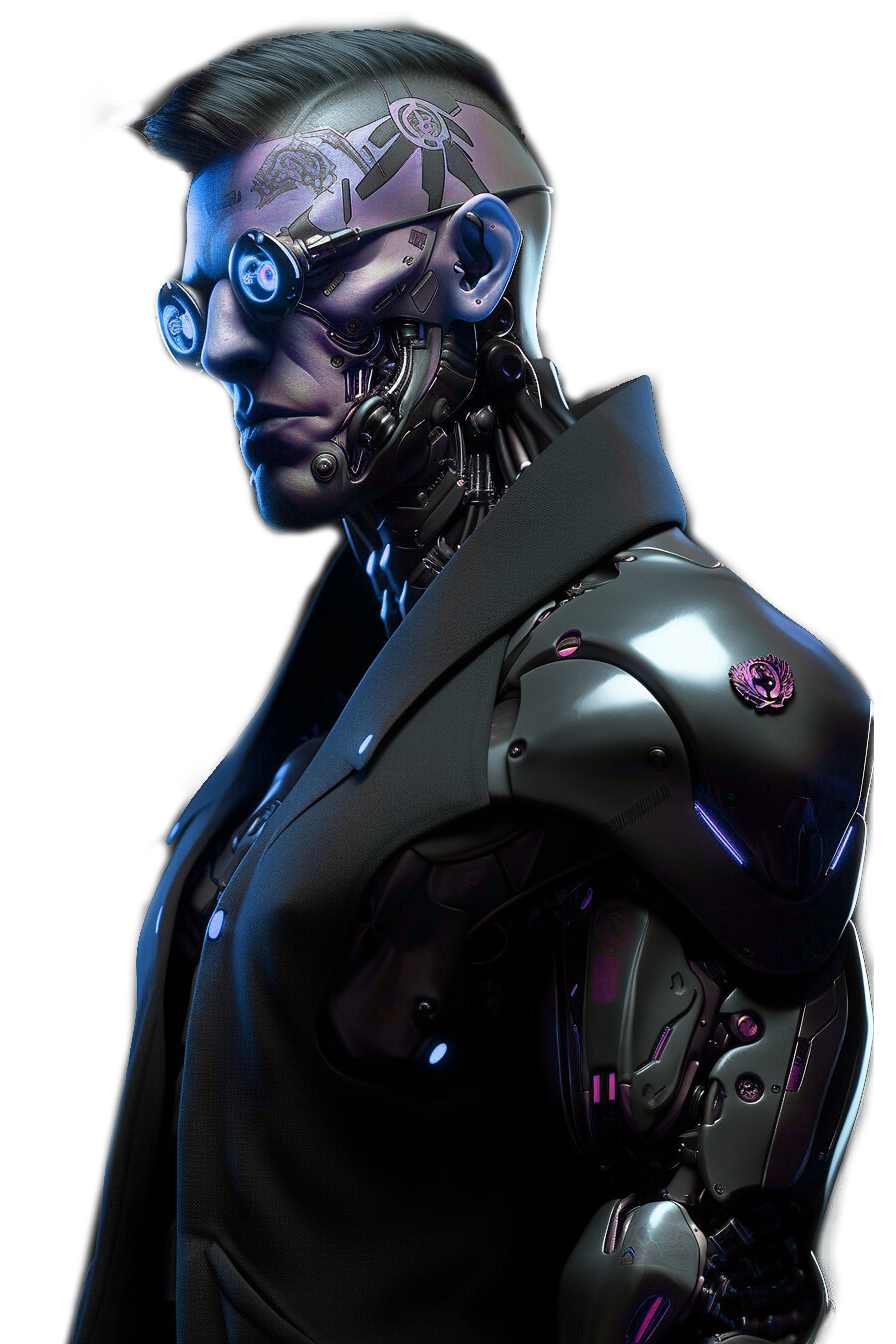
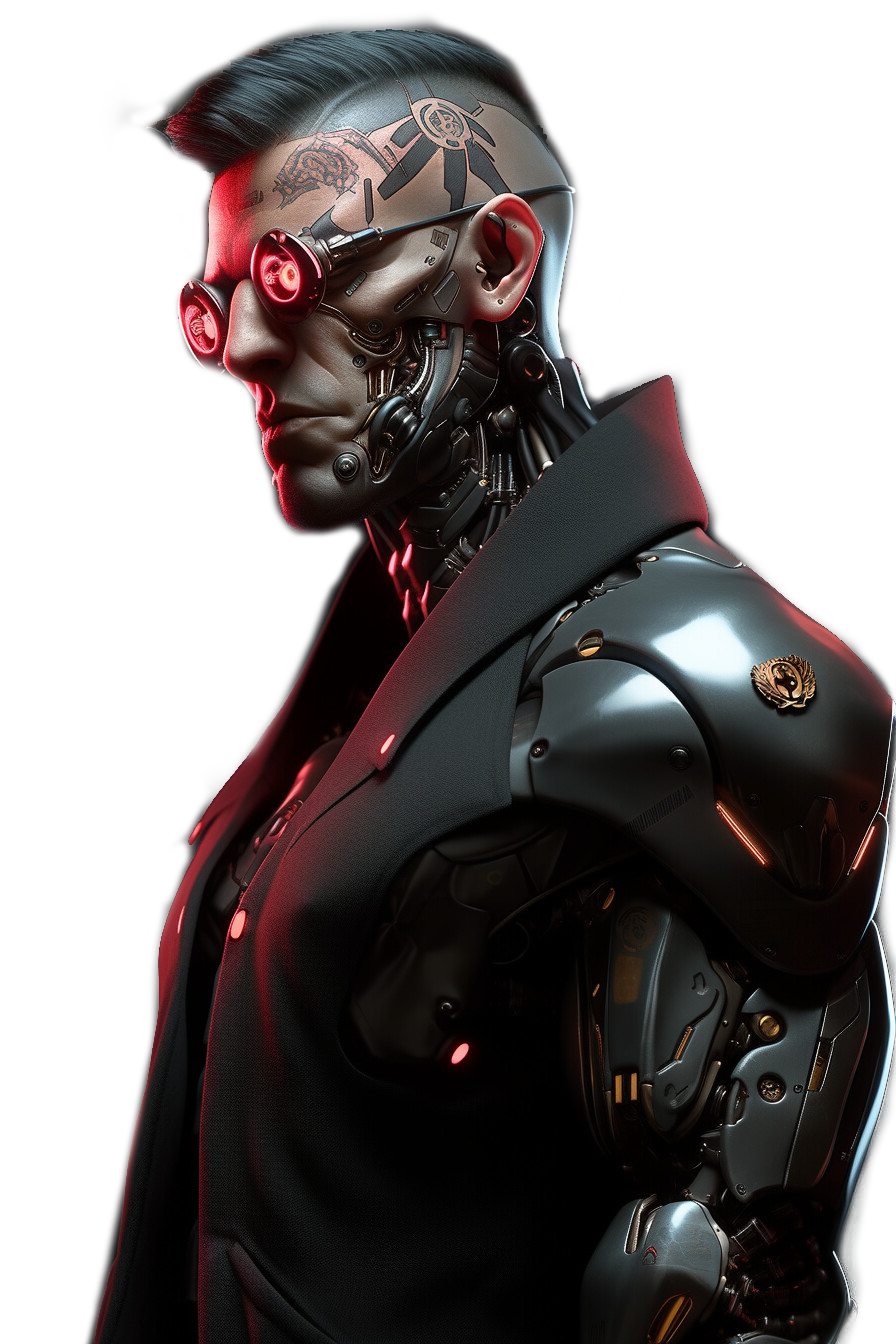
feat: updating + fixing ui bugs

Changed region(s): [[0.0625, 0.0, 1.0, 1.0], [0.75, 0.5938, 0.875, 0.6562], [0.4688, 0.75, 0.5312, 0.8125]]

diff --git a/app/components/FrameworkIcons.tsx b/app/components/FrameworkIcons.tsx
@@ -9,7 +9,8 @@ import {
   CsharpOriginal,
   Css3Original,
   DartOriginal,
-  DjangoPlainWordmark, DjangorestLineWordmark, DjangorestOriginal, DjangorestPlain, DjangorestPlainWordmark,
+  DjangoPlain,
+  DjangorestPlain,
   DockerOriginalWordmark,
   DotnetcoreOriginal,
   DotNetOriginal,
@@ -17,6 +18,7 @@ import {
   FlaskOriginal,
   FlutterOriginal,
   GitlabOriginalWordmark,
+  GitOriginal,
   GooglecloudOriginal,
   GoOriginal,
   Html5Original,
@@ -28,7 +30,7 @@ import {
   KubernetesOriginalWordmark,
   LaravelOriginal,
   MicrosoftsqlserverOriginalWordmark,
-  MongodbOriginalWordmark,
+  MongodbOriginal,
   MysqlOriginalWordmark,
   NextjsOriginal,
   NodejsOriginal,
@@ -50,11 +52,13 @@ import {
   SwiftOriginalWordmark,
   TailwindcssOriginal,
   TypescriptOriginal,
-  VuejsOriginal, WebflowOriginal, WordpressOriginal,
+  VuejsOriginal,
+  WebflowOriginal,
+  WordpressOriginal,
 } from "devicons-react";
-import {GitHubLogoIcon} from "@radix-ui/react-icons";
 import {SiExpress} from "react-icons/si";
 import {Tooltip, TooltipContent, TooltipProvider, TooltipTrigger} from "@/components/ui/tooltip";
+import {AiFillGithub} from "react-icons/ai";
 
 interface Framework {
   value: string;
@@ -67,7 +71,7 @@ export const allFrameworks: Framework[] = [
   {value: 'NODEJS', label: 'Node.js', icon: <NodejsOriginal size={30} color="slategrey"/>},
   {value: 'NEXTJS', label: 'Next.js', icon: <NextjsOriginal size={30} color="slategrey"/>},
   {value: 'PYTHON', label: 'Python', icon: <PythonOriginal size={30} color="slategrey"/>},
-  {value: 'DJANGO', label: 'Django', icon: <DjangoPlainWordmark size={30} color="darkgreen"/>},
+  {value: 'DJANGO', label: 'Django', icon: <DjangoPlain size={30} color="darkgreen"/>},
   {value: 'DJANGOREST', label: 'DjangoRestFramework', icon: <DjangorestPlain size={30} color="slategrey"/>},
   {value: 'FLASK', label: 'Flask', icon: <FlaskOriginal size={30} color="slategrey"/>},
   {value: 'FASTAPI', label: 'FastAPI', icon: <FastapiOriginal size={30} color="slategrey"/>},
@@ -87,7 +91,8 @@ export const allFrameworks: Framework[] = [
   {value: 'ANGULAR', label: 'Angular', icon: <AngularjsOriginal size={30} color="slategrey"/>},
   {value: 'VUEJS', label: 'Vue.js', icon: <VuejsOriginal size={30} color="slategrey"/>},
   {value: 'DOTNET', label: '.NET', icon: <DotnetcoreOriginal size={30} color="slategrey"/>},
-  {value: 'GITHUB', label: 'Github', icon: <GitHubLogoIcon color="slategrey"/>},
+  {value: 'GITHUB', label: 'Github', icon: <AiFillGithub size={30} color="slategrey"/>},
+  {value: 'GIT', label: 'Git', icon: <GitOriginal size={30} color="slategrey"/>},
   {value: 'HTML', label: 'HTML5', icon: <Html5Original size={30} color="slategrey"/>},
   {value: 'CSS', label: 'CSS3', icon: <Css3Original size={30} color="slategrey"/>},
   {value: 'SQL', label: 'SQL', icon: <MicrosoftsqlserverOriginalWordmark size={30} color="slategrey"/>},
@@ -95,7 +100,7 @@ export const allFrameworks: Framework[] = [
   {value: 'POSTGRESQL', label: 'Postgresql', icon: <PostgresqlOriginalWordmark size={30} color="slategrey"/>},
   {value: 'SQLITE', label: 'Sqlite', icon: <SqliteOriginalWordmark size={30} color="slategrey"/>},
   {value: 'SQLALCHEMY', label: 'Sqlalchemy', icon: <SqlalchemyOriginalWordmark size={30} color="slategrey"/>},
-  {value: 'MONGODB', label: 'MongoDB', icon: <MongodbOriginalWordmark size={30} color="slategrey"/>},
+  {value: 'MONGODB', label: 'MongoDB', icon: <MongodbOriginal size={30} color="slategrey"/>},
   {value: 'C', label: 'C', icon: <COriginal size={30} color="slategrey"/>},
   {value: 'R', label: 'R', icon: <ROriginal size={30} color="slategrey"/>},
   {value: 'SWIFTUI', label: 'SwiftUi', icon: <SwiftOriginalWordmark size={30} color="slategrey"/>},
@@ -136,7 +141,7 @@ const renderSkills = (skills: { [key: string]: boolean }, size: number) => {
                         <Tooltip>
                           <TooltipTrigger>
                             <div
-                                className="sm:w-12 sm:h-12 w-10 h-10  bg-muted overflow-hidden flex justify-center items-center rounded-md">
+                                className="sm:w-12 sm:h-12 w-10 h-10 hover:scale-110  animate-[] transition-all duration-500 hover:shadow-primary shadow-lg   bg-muted overflow-hidden flex justify-center items-center rounded-md">
                               {framework.icon}
                             </div>
                           </TooltipTrigger>
@@ -160,7 +165,7 @@ const renderSkills = (skills: { [key: string]: boolean }, size: number) => {
 const FrameworkIcons = ({skills, size}: { skills: { [key: string]: boolean }, size: number }) => {
   return (
       <div className="framework-list">
-        <div className="flex gap-3 flex-wrap">
+        <div className="flex gap-3 flex-wrap ">
           {renderSkills(skills, size)}
         </div>
       </div>

diff --git a/app/generatedTheme.css b/app/generatedTheme.css
@@ -1,45 +1,45 @@
 
     :root {
         --background-custom: 0 0% 100%;
-        --foreground-custom: 222.2 84% 4.9%;
+        --foreground-custom: 240 10% 3.9%;
         --card-custom: 0 0% 100%;
-        --card-foreground-custom: 222.2 84% 4.9%;
+        --card-foreground-custom: 240 10% 3.9%;
         --popover-custom: 0 0% 100%;
-        --popover-foreground-custom: 222.2 84% 4.9%;
-        --primary-custom: 221.2 83.2% 53.3%;
-        --primary-foreground-custom: 210 40% 98%;
-        --secondary-custom: 210 40% 96.1%;
-        --secondary-foreground-custom: 222.2 47.4% 11.2%;
-        --muted-custom: 210 40% 96.1%;
-        --muted-foreground-custom: 215.4 16.3% 46.9%;
-        --accent-custom: 210 40% 96.1%;
-        --accent-foreground-custom: 222.2 47.4% 11.2%;
+        --popover-foreground-custom: 240 10% 3.9%;
+        --primary-custom: 346.8 77.2% 49.8%;
+        --primary-foreground-custom: 355.7 100% 97.3%;
+        --secondary-custom: 240 4.8% 95.9%;
+        --secondary-foreground-custom: 240 5.9% 10%;
+        --muted-custom: 240 4.8% 95.9%;
+        --muted-foreground-custom: 240 3.8% 46.1%;
+        --accent-custom: 240 4.8% 95.9%;
+        --accent-foreground-custom: 240 5.9% 10%;
         --destructive-custom: 0 84.2% 60.2%;
-        --destructive-foreground-custom: 210 40% 98%;
-        --border-custom: 214.3 31.8% 91.4%;
-        --input-custom: 214.3 31.8% 91.4%;
-        --ring-custom: 221.2 83.2% 53.3%;
+        --destructive-foreground-custom: 0 0% 98%;
+        --border-custom: 240 5.9% 90%;
+        --input-custom: 240 5.9% 90%;
+        --ring-custom: 346.8 77.2% 49.8%;
         --radius-custom: 0.5rem;
     }
     .dark {
-        --background-custom-dark: 222.2 84% 4.9%;
-        --foreground-custom-dark: 210 40% 98%;
-        --card-custom-dark: 222.2 84% 4.9%;
-        --card-foreground-custom-dark: 210 40% 98%;
-        --popover-custom-dark: 222.2 84% 4.9%;
-        --popover-foreground-custom-dark: 210 40% 98%;
-        --primary-custom-dark: 217.2 91.2% 59.8%;
-        --primary-foreground-custom-dark: 222.2 47.4% 11.2%;
-        --secondary-custom-dark: 217.2 32.6% 17.5%;
-        --secondary-foreground-custom-dark: 210 40% 98%;
-        --muted-custom-dark: 217.2 32.6% 17.5%;
-        --muted-foreground-custom-dark: 215 20.2% 65.1%;
-        --accent-custom-dark: 217.2 32.6% 17.5%;
-        --accent-foreground-custom-dark: 210 40% 98%;
+        --background-custom-dark: 20 14.3% 4.1%;
+        --foreground-custom-dark: 0 0% 95%;
+        --card-custom-dark: 24 9.8% 10%;
+        --card-foreground-custom-dark: 0 0% 95%;
+        --popover-custom-dark: 0 0% 9%;
+        --popover-foreground-custom-dark: 0 0% 95%;
+        --primary-custom-dark: 346.8 77.2% 49.8%;
+        --primary-foreground-custom-dark: 355.7 100% 97.3%;
+        --secondary-custom-dark: 240 3.7% 15.9%;
+        --secondary-foreground-custom-dark: 0 0% 98%;
+        --muted-custom-dark: 0 0% 15%;
+        --muted-foreground-custom-dark: 240 5% 64.9%;
+        --accent-custom-dark: 12 6.5% 15.1%;
+        --accent-foreground-custom-dark: 0 0% 98%;
         --destructive-custom-dark: 0 62.8% 30.6%;
-        --destructive-foreground-custom-dark: 210 40% 98%;
-        --border-custom-dark: 217.2 32.6% 17.5%;
-        --input-custom-dark: 217.2 32.6% 17.5%;
-        --ring-custom-dark: 224.3 76.3% 48%;
+        --destructive-foreground-custom-dark: 0 85.7% 97.3%;
+        --border-custom-dark: 240 3.7% 15.9%;
+        --input-custom-dark: 240 3.7% 15.9%;
+        --ring-custom-dark: 346.8 77.2% 49.8%;
     }
     

diff --git a/app/ExperiencesTimeline.tsx b/app/ExperiencesTimeline.tsx
@@ -15,28 +15,27 @@ const ExperiencesTimeline = () => {
                     </div>
                     <ol className="relative border-s-2 col-span-2 border-primary dark:border-primary">
                         <li className="mb-10 ms-6">
-                    <span
-                        className="absolute border-primary border-2 flex items-center
-                        shadow-xl shadow-primary transition-all
-                        justify-center w-7 h-7 bg-primary-foreground rounded-full -start-[15px]
-                         dark:bg-background">
-                    <svg className="w-2.5 h-2.5 text-primary  dark:text-primary" aria-hidden="true"
-                         xmlns="http://www.w3.org/2000/svg" fill="currentColor" viewBox="0 0 20 20">
-                        <path
-                            d="M20 4a2 2 0 0 0-2-2h-2V1a1 1 0 0 0-2 0v1h-3V1a1 1 0 0 0-2 0v1H6V1a1 1 0 0 0-2 0v1H2a2 2 0 0 0-2 2v2h20V4ZM0 18a2 2 0 0 0 2 2h16a2 2 0 0 0 2-2V8H0v10Zm5-8h10a1 1 0 0 1 0 2H5a1 1 0 0 1 0-2Z"/>
-                    </svg>
-                    </span>
-                        <h3 className="flex items-center capitalize mb-1 text-sm sm:text-lg font-semibold text-gray-900 dark:text-white">
-                            {item.title}
-                            <Badge
-                                className="ms-3 uppercase">
-
-                                {item.company}
-                            </Badge>
-                        </h3>
-                        <p className="text-sm sm:text-base font-normal text-muted-foreground  ">
-                            {item.description}
-                        </p>
+                            <span
+                                className="absolute border-primary border-2 flex items-center
+                                shadow-xl shadow-primary transition-all
+                                justify-center w-7 h-7 bg-primary-foreground rounded-full -start-[15px]
+                                 dark:bg-background">
+                                <svg className="w-2.5 h-2.5 text-primary dark:text-primary" aria-hidden="true"
+                                    xmlns="http://www.w3.org/2000/svg" fill="currentColor" viewBox="0 0 20 20">
+                                    <path
+                                        d="M20 4a2 2 0 0 0-2-2h-2V1a1 1 0 0 0-2 0v1h-3V1a1 1 0 0 0-2 0v1H6V1a1 1 0 0 0-2 0v1H2a2 2 0 0 0-2 2v2h20V4ZM0 18a2 2 0 0 0 2 2h16a2 2 0 0 0 2-2V8H0v10Zm5-8h10a1 1 0 0 1 0 2H5a1 1 0 0 1 0-2Z"/>
+                                </svg>
+                            </span>
+                            <h3 className="flex items-center capitalize mb-1 text-sm sm:text-lg font-semibold text-gray-900 dark:text-white">
+                                {item.title}
+                                <Badge
+                                    className="ms-3 uppercase">
+                                    {item.company}
+                                </Badge>
+                            </h3>
+                            <p className="text-sm sm:text-base font-normal text-muted-foreground  ">
+                                {item.description}
+                            </p>
                         </li>
                     </ol>
                 </div>

diff --git a/app/components/ContactForm.tsx b/app/components/ContactForm.tsx
@@ -67,7 +67,7 @@ const ContactForm = () => {
                 </div>
                 <div className="flex flex-col justify-end gap-5">
                   <div>I&apos;m interested in ...</div>
-                  <RadioGroup defaultValue={interested} className="flex flex-wrap">
+                  <RadioGroup defaultValue={interested} className="flex flex-wrap ">
                     {me.i_will_do.map(item => (
                         <div key={item}>
                           <RadioGroupItem
@@ -81,7 +81,9 @@ const ContactForm = () => {
                           />
                           <Label
                               htmlFor={item}
-                              className={`flex flex-col items-center capitalize justify-between rounded-md border border-primary bg-popover p-2 hover:bg-accent hover:text-accent-foreground ${interested === item ? 'peer-data-[state=checked]:bg-primary peer-data-[state=checked]:text-background [&:has([data-state=checked])]:bg-primary' : ''}`}
+                              className={`flex flex-col items-center capitalize justify-between rounded-md border 
+                              border-primary transition-all duration-300 bg-popover shadow-lg hover:shadow-primary p-2 hover:bg-accent hover:text-accent-foreground 
+                              ${interested === item ? 'peer-data-[state=checked]:bg-primary peer-data-[state=checked]:text-background [&:has([data-state=checked])]:bg-primary' : ''}`}
                           >
                             {item}
                           </Label>

diff --git a/app/layout.tsx b/app/layout.tsx
@@ -25,11 +25,11 @@ export default function RootLayout({children,}: Readonly<{
       <body className={inter.className}>
       <ThemeProvider
           attribute="class"
-          defaultTheme="system"
+          defaultTheme="dark"
           enableSystem
           disableTransitionOnChange
       >
-        <div className="flex flex-col min-h-screen">
+        <div className="flex flex-col min-h-screen overflow-x-hidden">
           <Navbar/>
           <main className="flex-grow sm:p-10 p-5 bg-gradient-to-r from-primary/25">
             <Container>{children}</Container>

diff --git a/app/Navbar.tsx b/app/Navbar.tsx
@@ -27,7 +27,7 @@ const Navbar = () => {
   return (
       <div className="">
         <Container>
-          <div className="flex my-3 sm: xl:mx-0 mx-5 justify-between items-center">
+          <div className="flex ober my-3 sm: xl:mx-0 mx-5 justify-between items-center">
             <Avatar className="hover:shadow-primary transition-all duration-500 shadow-xl shadow-primary/50 ">
               <AvatarImage rel="apple-touch-icon" src="favicon.ico"/>
               <AvatarFallback>DP</AvatarFallback>

diff --git a/tailwind.config.ts b/tailwind.config.ts
@@ -67,8 +67,13 @@ const config = {
           from: { height: "var(--radix-accordion-content-height)" },
           to: { height: "0" },
         },
+        wiggle: {
+          '0%, 100%': { transform: 'rotate(-3deg)' },
+          '50%': { transform: 'rotate(3deg)' },
+        }
       },
       animation: {
+        wiggle: 'wiggle 1s ease-in',
         "accordion-down": "accordion-down 0.2s ease-out",
         "accordion-up": "accordion-up 0.2s ease-out",
       },

diff --git a/app/AboutMe.tsx b/app/AboutMe.tsx
@@ -14,6 +14,9 @@ const AboutMe = () => {
               <p className="text-muted-foreground sm:w-[47%] sm:leading-8">
                 {me.about_me}
               </p>
+                <div className="flex-wrap flex gap-2">
+                    <p>"Simplicity is the key of brilliance"</p><p className="font-semibold"> - Bruce lee</p>
+                </div>
             </div>
           </Container>
         </div>

diff --git a/app/HeroSection.tsx b/app/HeroSection.tsx
@@ -18,7 +18,6 @@ const HeroSection = ({data}: Props) => {
     social_media
   } = data;
 
-
   return (
       <div className="relative flex flex-col-reverse">
         <div className="flex flex-col gap-3 rounded-md bg-background sm:p-0 p-5 sm:mt-0 mt-52 pt-3 sm:mb-0 sm:pt-0 sm:pb-0 sm:bg-transparent">
